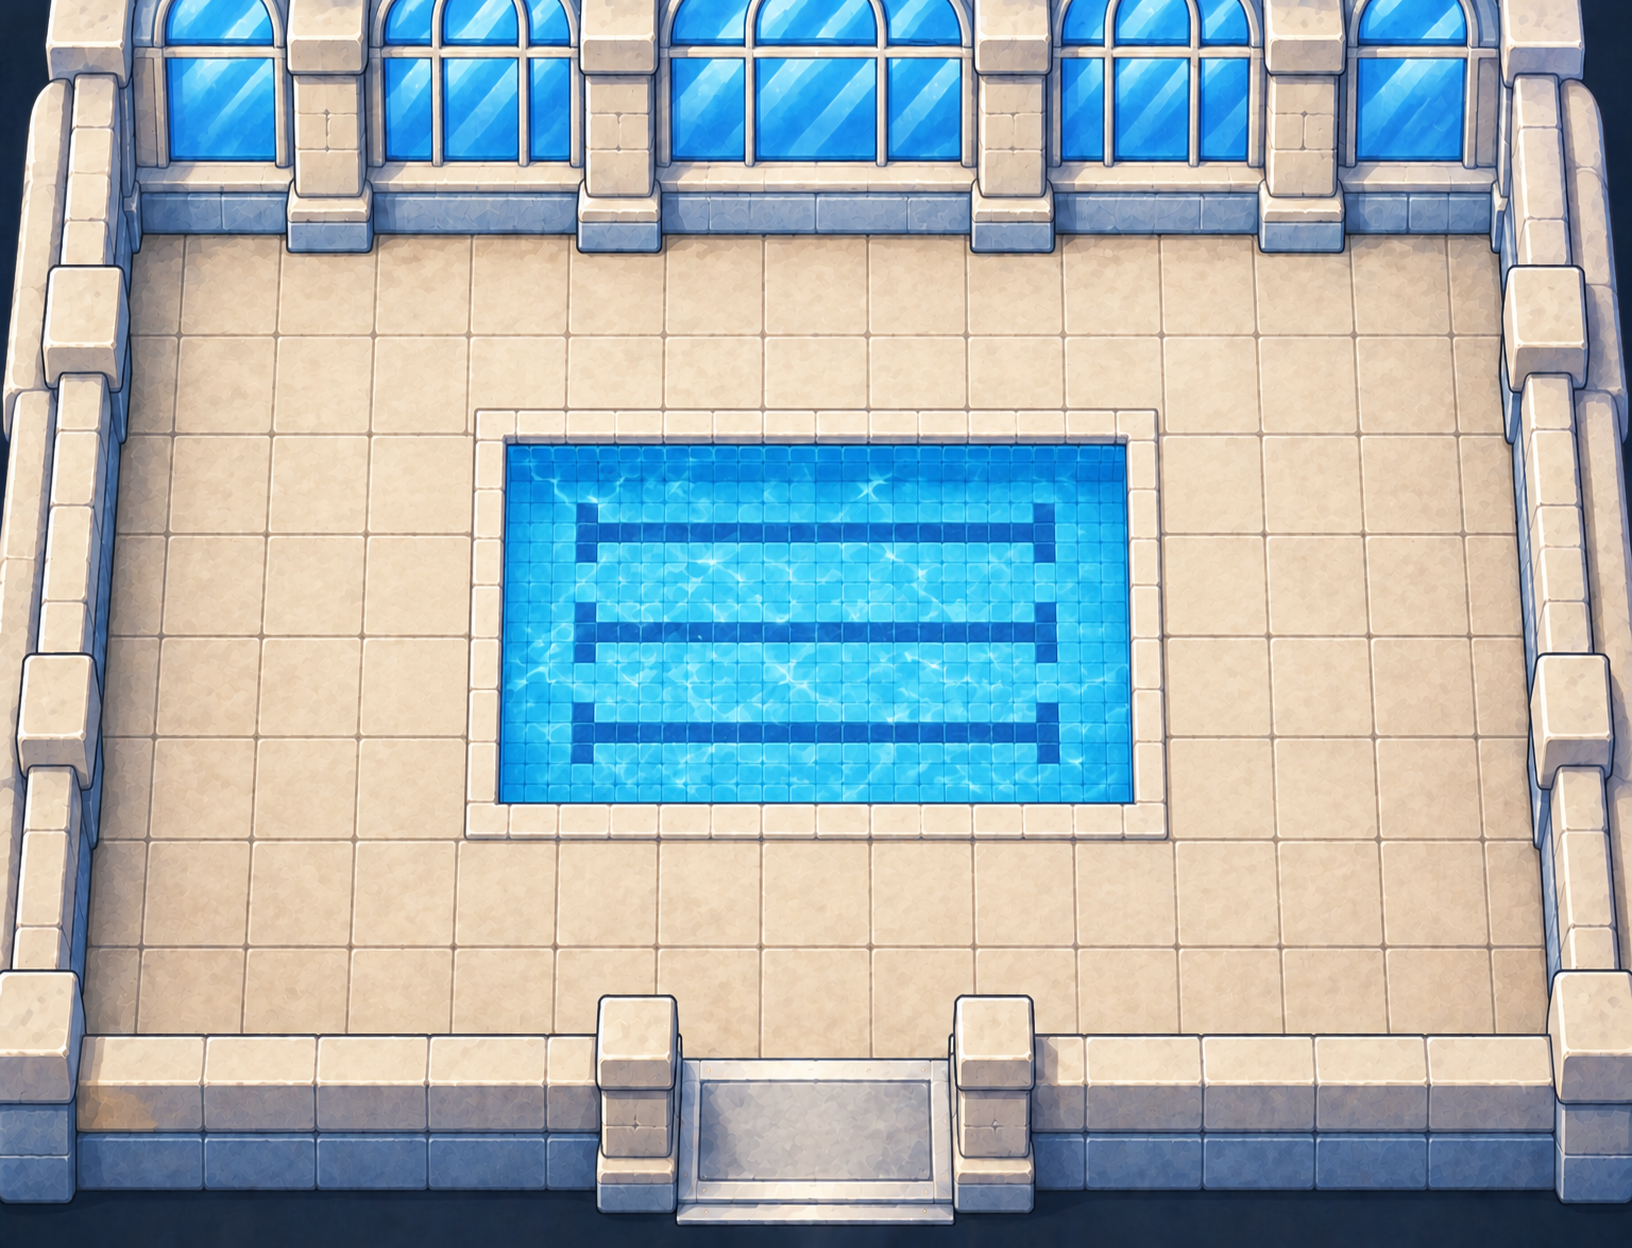
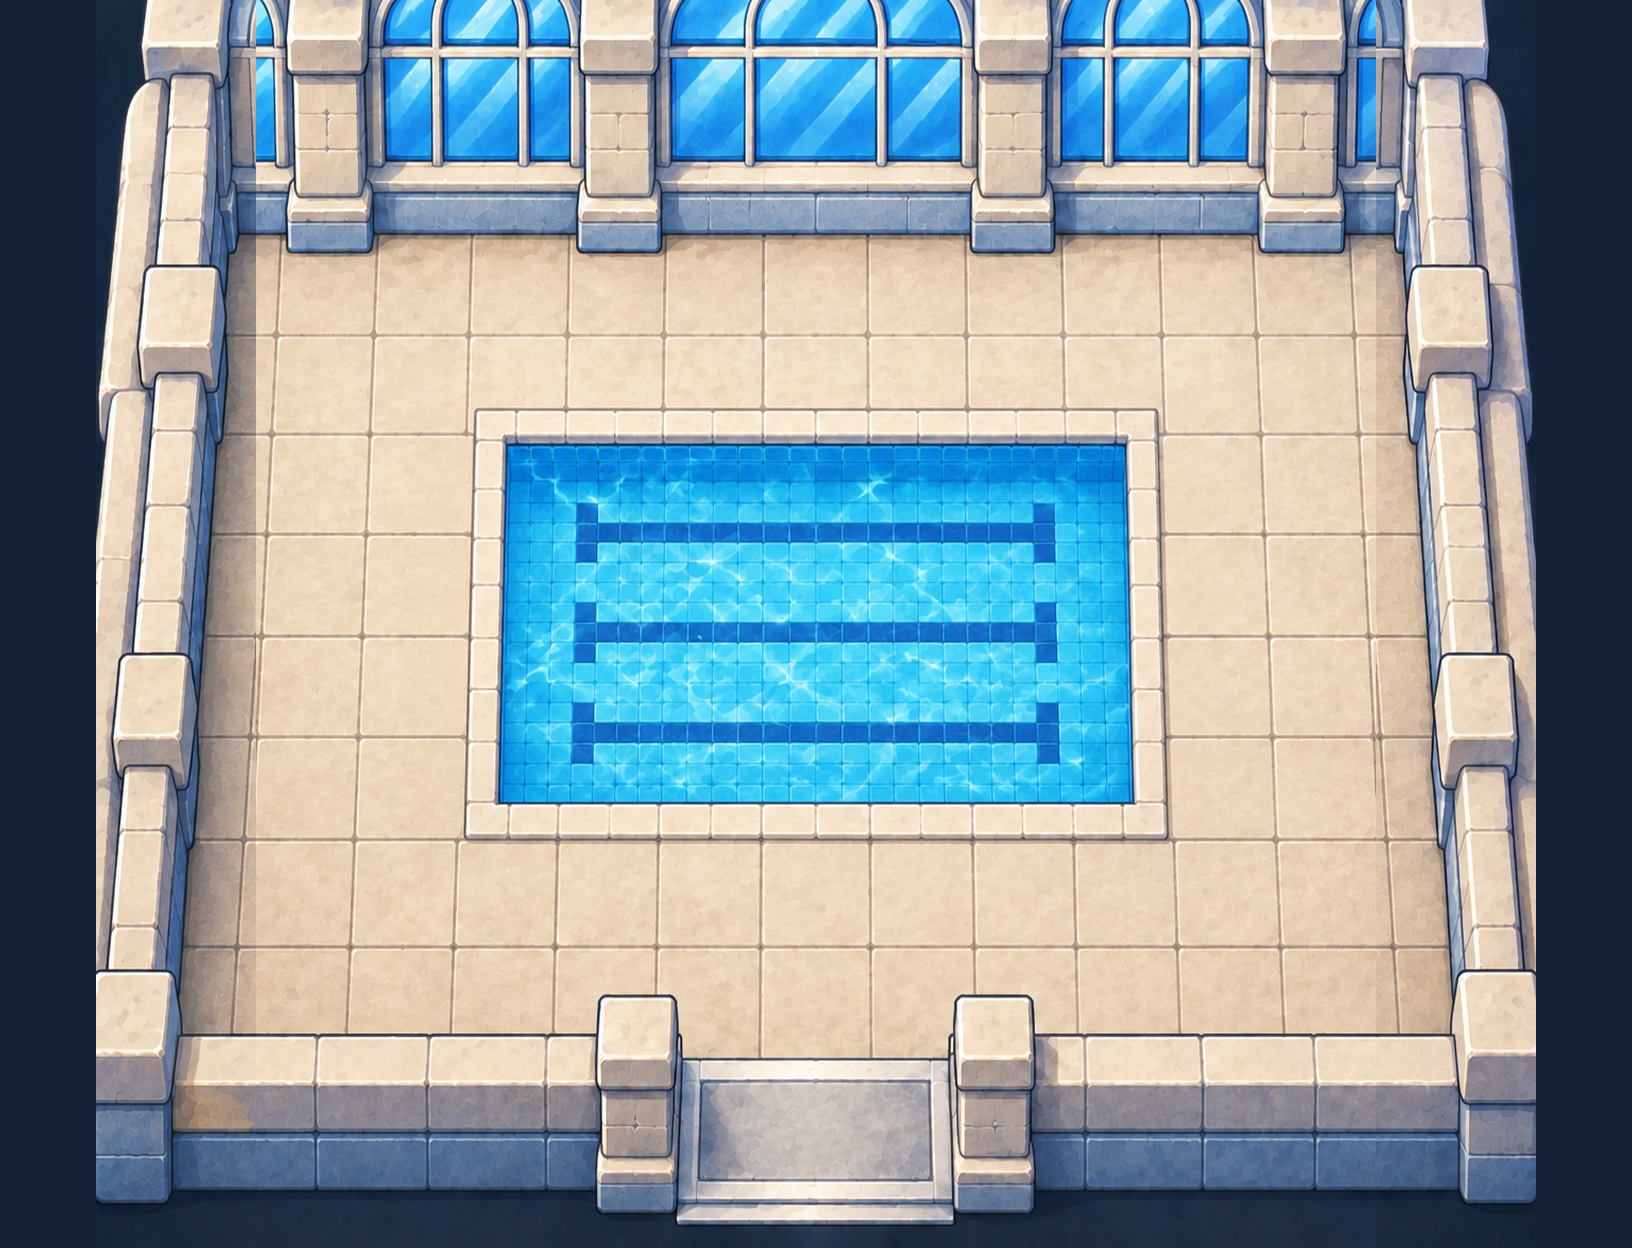
Arènes d'Argenta, Azuria et Carmin : murs latéraux peints recalés sur les deux colonnes bloquées du plan (plus de murs invisibles)

Changed region(s): [[0.0, 0.0, 0.1562, 0.9688], [0.8438, 0.0, 1.0, 0.9688]]

diff --git a/tools/art/coque_murs.py b/tools/art/coque_murs.py
@@ -1,0 +1,52 @@
+#!/usr/bin/env python3
+"""Murs latéraux des coques peintes d'arènes recalés sur le plan (audit du 2026-11-14 ; Kevin :
+« repeins les arènes »). La coque peignait des murs latéraux plus fins que les deux colonnes
+bloquées du plan : une colonne de « sol » peint était un mur invisible. Chaque bande de mur
+(bord gauche et bord droit, toute la hauteur) glisse vers l'intérieur de SHIFT px ; le vide
+laissé côté extérieur prend la couleur de fond de la coque. Le milieu de l'image ne bouge pas.
+
+Repart toujours de la coque d'origine (commit SOURCE), donc relançable sans cumuler.
+
+  python3 tools/art/coque_murs.py
+"""
+import io
+import os
+import subprocess
+
+from PIL import Image
+
+ROOT = os.path.dirname(os.path.dirname(os.path.dirname(os.path.abspath(__file__))))
+SOURCE = "a85e8fc31"
+INTERIORS = "assets/world/interiors/"
+# image : (décalage gauche, décalage droite, largeur de la bande de mur), en px.
+COQUES = {
+    "int_arene_coque.png": (96, 96, 150),           # Argenta : mur x 0..1 et 13..14
+    "int_arene_azuria_coque.png": (96, 96, 160),    # Azuria : x 0..1 et 15..16
+    "int_arene_carmin_coque.png": (56, 56, 150),    # Carmin : x 0..1 et 15..16
+}
+
+
+def original(name: str) -> Image.Image:
+    data = subprocess.run(["git", "show", f"{SOURCE}:{INTERIORS}{name}"], cwd=ROOT,
+                          check=True, capture_output=True).stdout
+    return Image.open(io.BytesIO(data)).convert("RGBA")
+
+
+def main() -> None:
+    for name, (left, right, strip) in COQUES.items():
+        src = original(name)
+        w, h = src.size
+        bg = src.getpixel((2, h - 2))
+        out = src.copy()
+        if left:
+            out.paste(Image.new("RGBA", (left, h), bg), (0, 0))
+            out.paste(src.crop((0, 0, strip, h)), (left, 0))
+        if right:
+            out.paste(Image.new("RGBA", (right, h), bg), (w - right, 0))
+            out.paste(src.crop((w - strip, 0, w, h)), (w - strip - right, 0))
+        out.save(os.path.join(ROOT, INTERIORS, name))
+        print(f"{name} : murs recalés ({left} px à gauche, {right} px à droite)")
+
+
+if __name__ == "__main__":
+    main()
